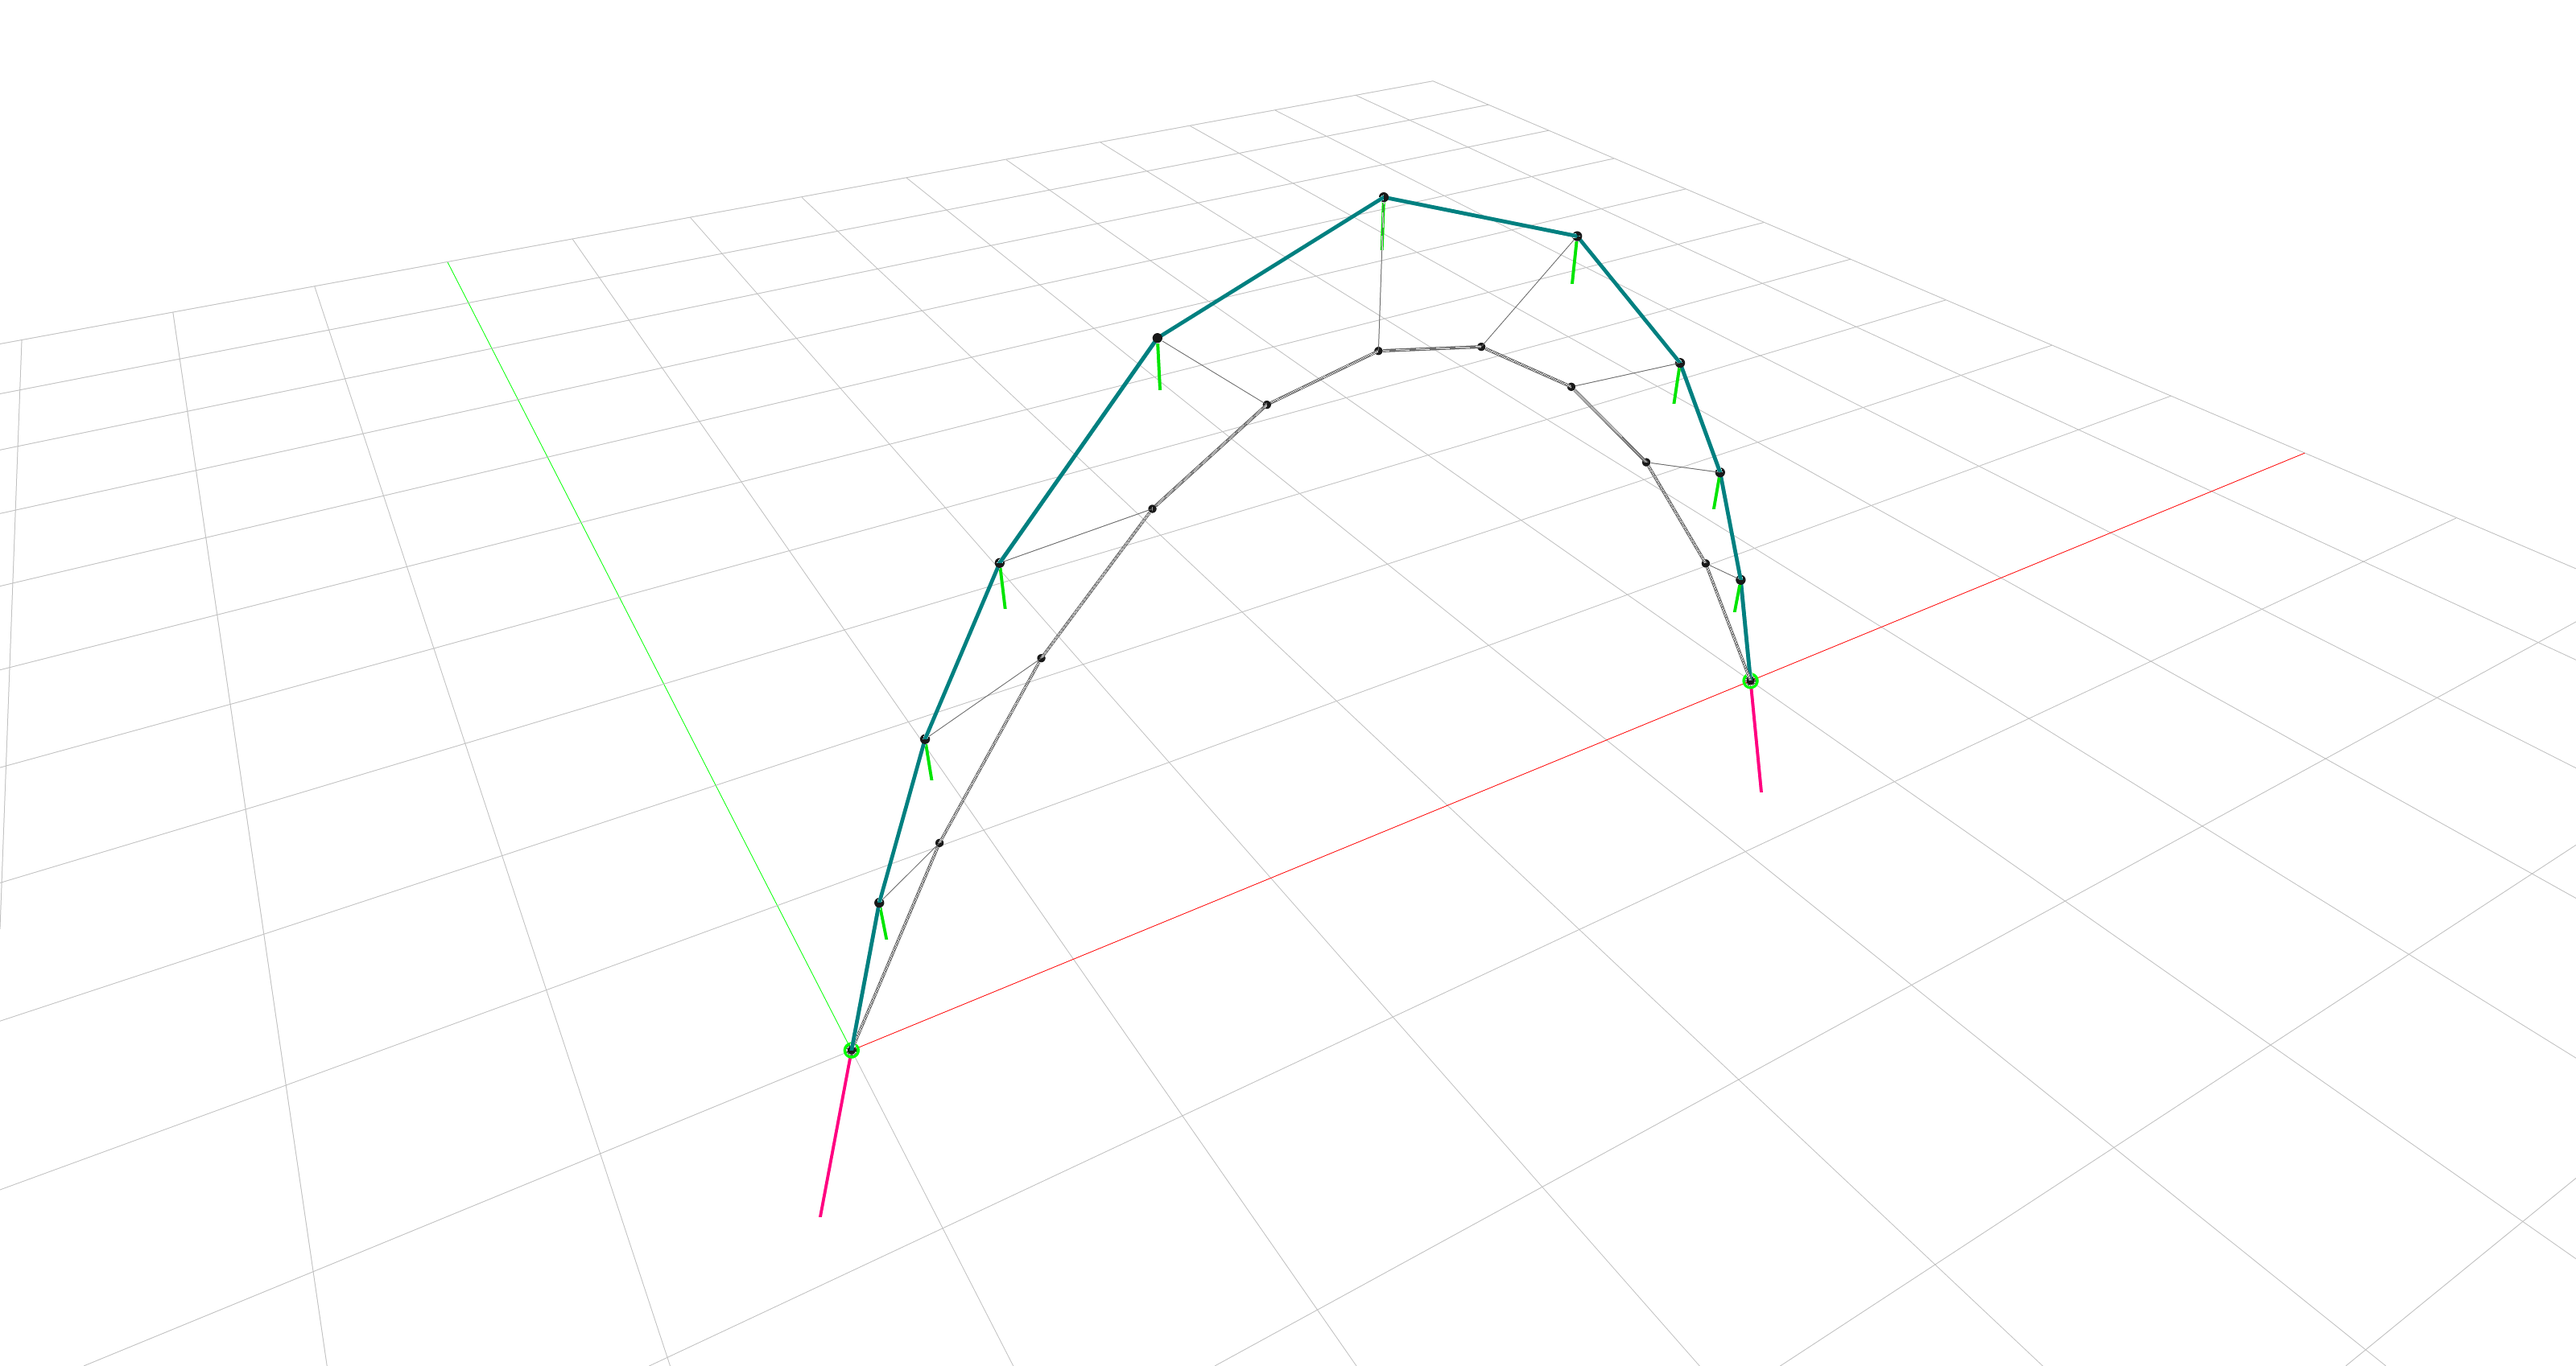
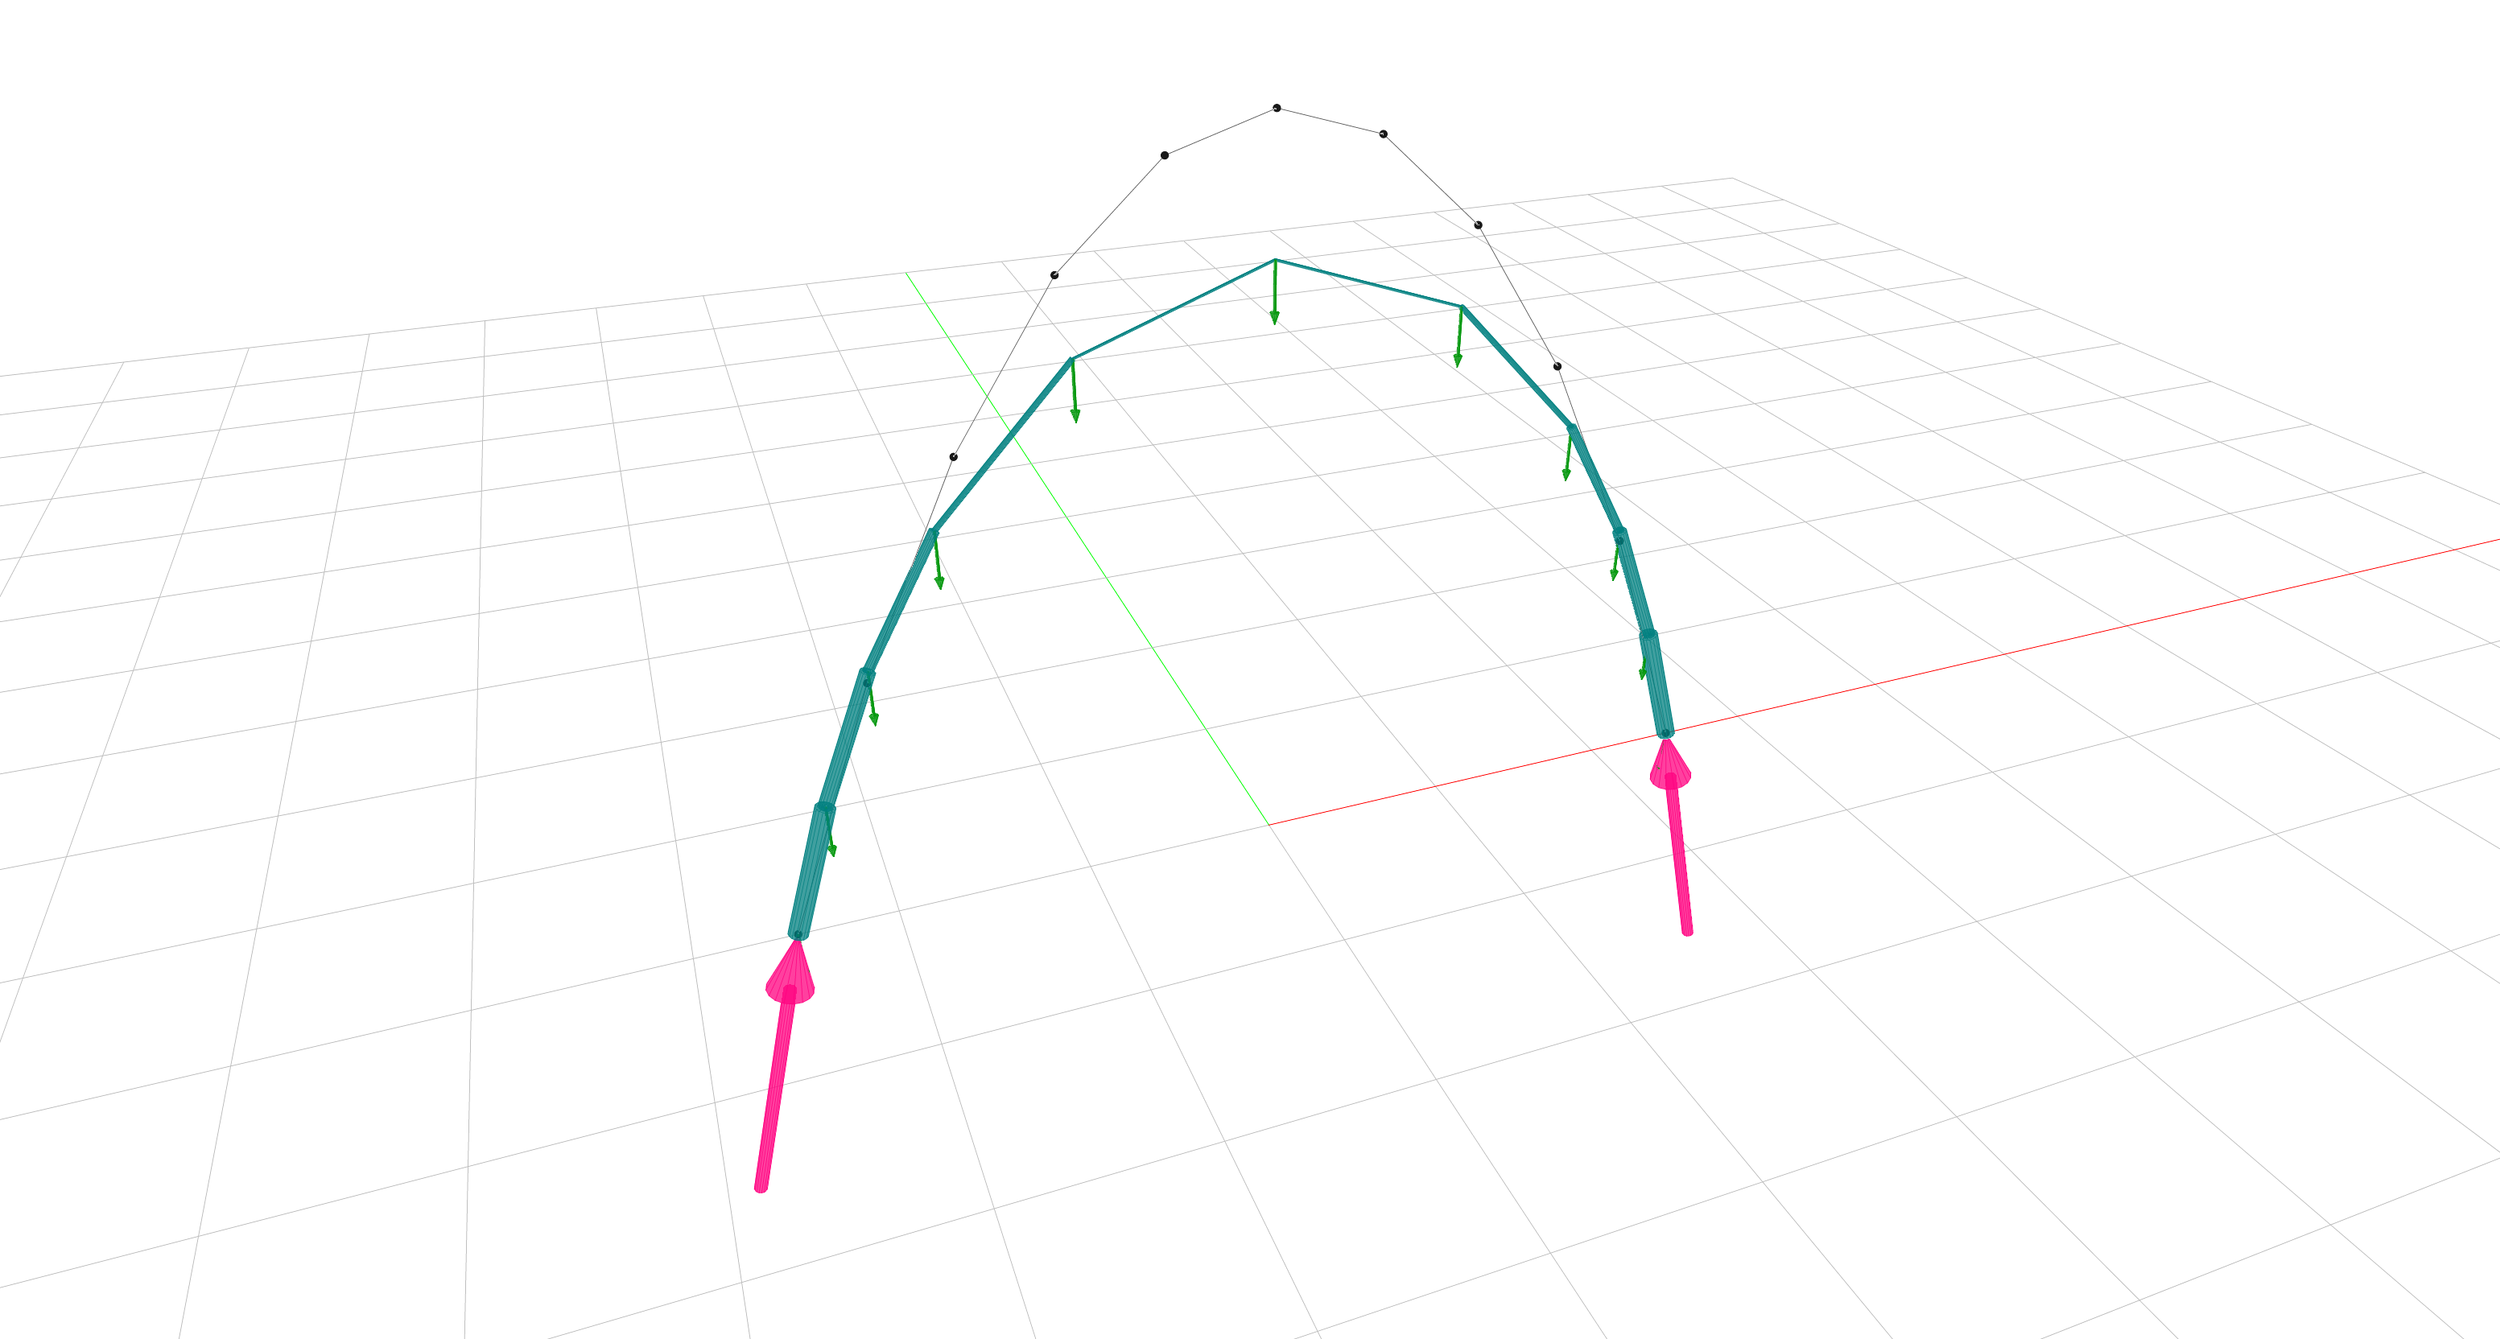
[Readme] Updated arch example

Changed region(s): [[0.2811, 0.125, 0.6871, 0.9062], [0.4684, 0.2812, 0.4997, 0.3438], [0.406, 0.1875, 0.4372, 0.2188]]

diff --git a/examples/butt.py b/examples/butt.py
@@ -52,7 +52,7 @@ FILE_IN = os.path.abspath(os.path.join(HERE, f"../data/json/{name}.json"))
 network = FDNetwork.from_json(FILE_IN)
 
 # ==========================================================================
-# Import targer network
+# Import target network
 # ==========================================================================
 
 FILE_IN = os.path.abspath(os.path.join(HERE, f"../data/json/{name_target}.json"))

diff --git a/README.md b/README.md
@@ -1,35 +1,36 @@
 <h1 align='center'>JAX FDM</h1>
 
-A differentiable, hardware-accelerated framework for inverse form-finding in structural design.
+A differentiable, hardware-accelerated framework for constrained form-finding in structural design.
 
 > Crafted with care in the [Form-Finding Lab](http://formfindinglab.princeton.edu/) at [Princeton University](https://princeton.edu) ❤🇺🇸
 
 ![](images/fdm_header.gif)
 
-JAX FDM enables the solution of inverse form-finding problems for discrete force networks using the force density method (FDM) and gradient-based optimization. It streamlines the integration of form-finding simulations into deep learning models for machine learning research.
+JAX FDM enables the solution of inverse form-finding problems for discrete force networks using the force density method (FDM) and gradient-based optimization.
+It streamlines the integration of form-finding simulations into deep learning models for machine learning research.
 
 ## Key features
 
 - **Derivatives, JIT compilation and parallelization.**
-JAX FDM is written in [JAX](https://github.com/google/jax), a library for high-performance numerical computing and machine learning research, and it thus inherits many of JAX's perks: calculate derivatives, parallelize, and just-in-time (JIT) compile entire form-finding simulations written in Python code, and run them on a CPU, a GPU, or a TPU.
+JAX FDM is written in [JAX](https://github.com/google/jax), a library for high-performance numerical computing and machine learning research, and it thus inherits many of JAX's perks: calculate derivatives, parallelize, and just-in-time (JIT) compile entire form-finding simulations written in Python code, and run them on a CPU, a GPU, or a TPU 🤯.
 <!-- The same JAX code can be run in a CPU, or in multiple GPUs or TPUs (🤯). Accelerate your simulations with minimal burden! -->
 - **Legendary form-finding solver.**
-JAX FDM computes static equilibrium states for discrete force networks with the [force density method (FDM)](https://www.sciencedirect.com/science/article/pii/0045782574900450), the time-tested form-finding solver backed up by over 50 years of peer-reviewed research.
+JAX FDM computes static equilibrium states for discrete force networks with the [force density method (FDM)](https://www.sciencedirect.com/science/article/pii/0045782574900450), the time-tested form-finding solver backed up by over 50 years of peer-reviewed research 📚.
 <!--  -->
 - **Autotune those force densities.**
 A form-found structure should fulfill additional design requirements to become a feasible structure in the real world.
 Formulate an inverse form-finding scenario like this as an optimization problem with JAX FDM.
-Then, let one of its gradient-based optimizers solve this readme by automatically tweaking the network's force densities.
+Then, let one of its gradient-based optimizers solve this readme by automatically tweaking the network's force densities 🕺🏻.
+(Coming soon: let the optimizer tune the support positions and the applied loads too!).
 <!-- Some popular examples of inverse form-finding problems include best-fitting a vault to an arbitrary target shape, minimizing the load path of a funicular network, or controlling the thrust and the supports of a bridge. -->
-<!-- (Coming soon: tweak the support positions and the applied loads, in addition to the force densities, too!). -->
 - **A rich bank of goals, constraints and loss functions.**
 No two structures are alike.
 JAX FDM allows you to model a custom inverse form-finding problem with its (growing!) collection of goals, constraints, and loss functions via a simple, object-oriented API.
-The available goals and constraints in the framework are granular and applicable to an entire network; to a subset of its nodes, edges, and combinations thereof.
+The available goals and constraints in the framework are granular and applicable to an entire network; to a subset of its nodes, edges, and combinations thereof 💡.
 <!-- Don't see a goal or a constraint you fit?. Add yours with ease! Consult our documentation guide (in progress) to see how you add yours. -->
 - **Form-finding simulations as another layer in a neural network.**
 Form-finding solver as another layer in a neural network. As an automatically differentiable library, JAX FDM can be seamlessly added as a module of a differentiable function approximator (like a neural network) that can be then trained end-to-end.
-Let the neural network learn the underlying physics of static equilibrium *directly* rom a form-finding solver instead of resorting to laborious techniques like data augmentation.
+Let the neural network learn the underlying physics of static equilibrium *directly* rom a form-finding solver instead of resorting to laborious techniques like data augmentation 🤖.
 <!--  -->
 
 JAX FDM is a research project under development.
@@ -73,11 +74,27 @@ Work in progress! Expect a release soon.
 
 ## Quick example
 
-Say the goal is to compute the form of an arch subjected to vertical point loads that minimizes its total Maxwell's load path, while constraining the length of its segments between 0.75 and 1.
-We solve this inverse form-finding problem with the SLSQP optimization algorithm.
+Suppose you are interested in generating a form in static equilibrium for a 10-meter span arch subjected to vertical point loads of 0.3 kN.
+The arch has to be a compression-only structure.
+You model the arch as a `jax_fdm` network, apply a force density of -1 to all of its edges, and compute the required shape with the force density method.
 
 ```python
 from jax_fdm.datastructures import FDNetwork
+from jax_fdm.equilibrium import fdm
+
+
+network = FDNetwork.from_json("data/json/arch.json")
+network.edges_forcedensities(q=-1.0)
+network.nodes_supports(keys=[node for node in network.nodes() if network.is_leaf(node)])
+network.nodes_loads([0.0, 0.0, -0.3])
+
+f_network = fdm(network)
+```
+
+You now wish to find a new form for this arch that minimizes the [total Maxwell´s load path](https://doi.org/10.1007/s00158-019-02214-w), while keeping the length of the arch segments between 0.75 and 1 meters.
+You solve this constrained form-finding problem with the SLSQP gradient-based optimizer.
+
+```python
 from jax_fdm.equilibrium import constrained_fdm
 from jax_fdm.optimization import SLSQP
 from jax_fdm.constraints import EdgeLengthConstraint
@@ -86,24 +103,29 @@ from jax_fdm.losses import PredictionError
 from jax_fdm.losses import Loss
 
 
-network = FDNetwork.from_json("data/json/arch.json")
-network.edges_forcedensities(q=-1.0)
-network.nodes_supports(keys=[node for node in network.nodes() if network.is_leaf(node)])
-network.nodes_loads([0.0, 0.0, -0.2])
-
-goals = [NetworkLoadPathGoal()]
-loss = Loss(PredictionError(goals))
+loss = Loss(PredictionError(goals=[NetworkLoadPathGoal]))
 constraints = [EdgeLengthConstraint(edge, 0.75, 1.0) for edge in network.edges()]
 optimizer = SLSQP()
 
 c_network = constrained_fdm(network, optimizer, loss, constraints=constraints)
-c_network.to_json("data/json/arch_constrained.json")
 ```
 
-We visualize the unconstrained form-found `network` (gray) and the constrained one, `c_network` (in teal), with COMPAS VIEW2, and draw lines between their nodes:
+You finally visualize the unconstrained form-found arch `f_network` (gray) and the constrained one, `c_network` (in teal) with the `Viewer`.
+
+```python
+from jax_fdm.visualization import Viewer
+
+
+viewer = Viewer(width=1600, height=900)
+viewer.add(c_network)
+viewer.add(f_network, as_wireframe=True)
+viewer.show()
+```
 
 ![](images/arch_loadpath.png)
 
+The constrained form is shallower than the unconstrained one as a result of the optimization process.
+The length of the arch segments also varies within the prescribe bounds to minimize the load path: segments are the longest where the arch's internal forces are lower (1.0 meter, at the appex); and conversely, the segments are shorter where the arch's internal forces are higher (0.75 m, at the base).
 
 ## More examples
 
